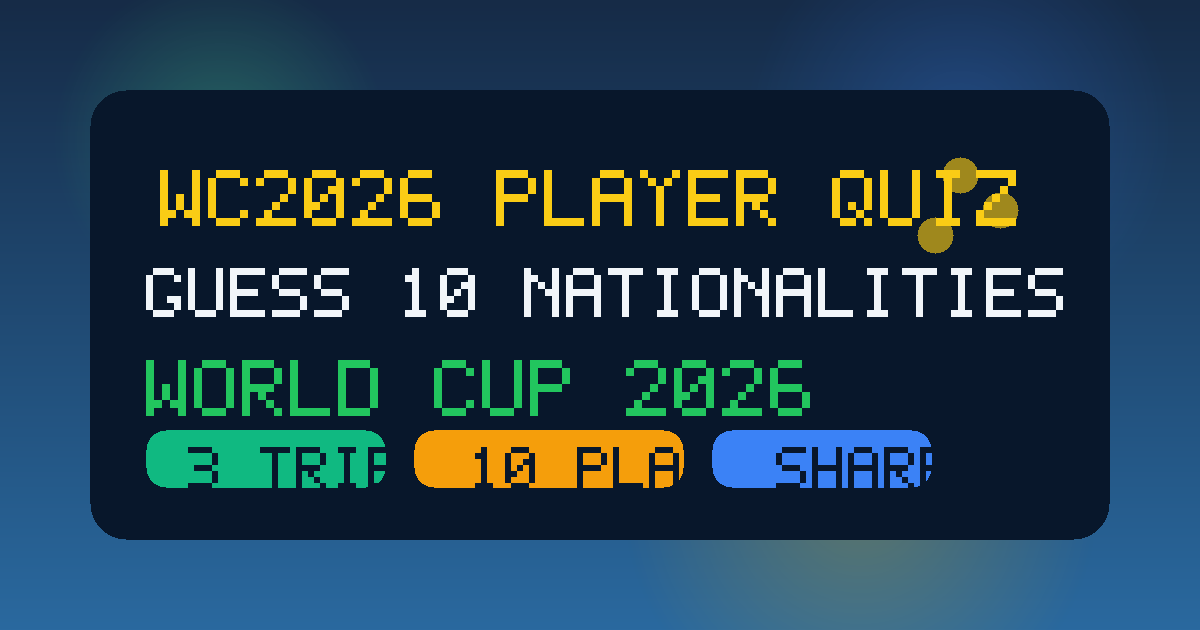
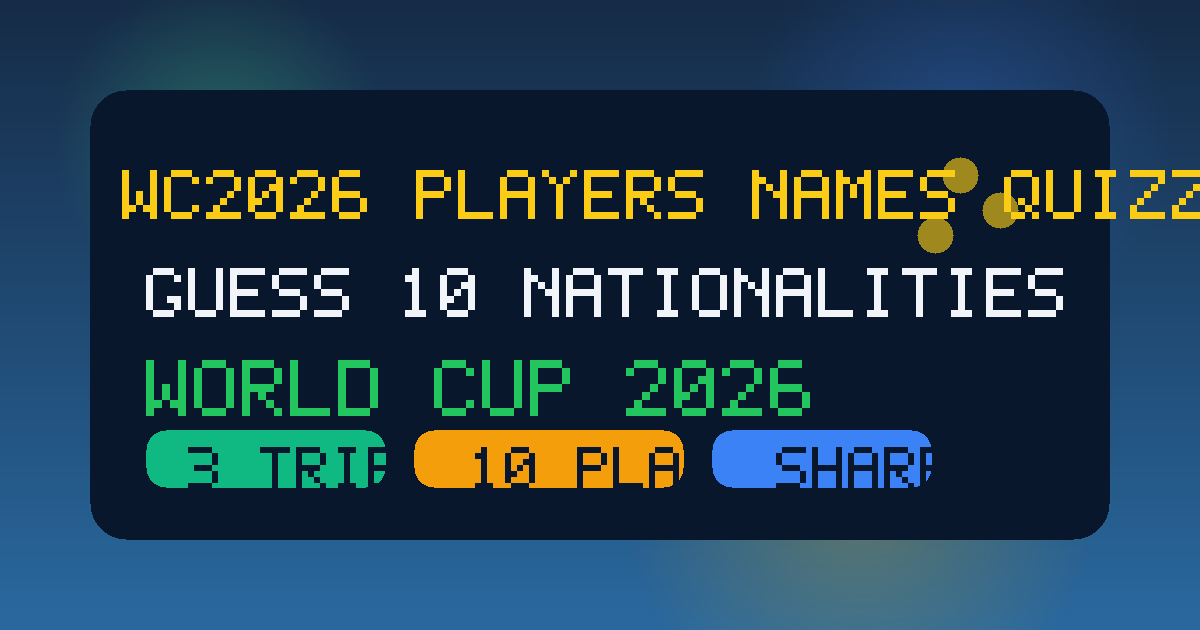
Rename game branding
Change the game name to WC2026 Players Names Quizz across the app, docs, devcontainer, and social preview image.

Changed region(s): [[0.0925, 0.2714, 1.0, 0.3619]]

diff --git a/client/index.html b/client/index.html
@@ -3,14 +3,14 @@
   <head>
     <meta charset="UTF-8" />
     <meta name="viewport" content="width=device-width, initial-scale=1.0" />
-    <title>WC2026 Player Quiz</title>
+    <title>WC2026 Players Names Quizz</title>
     <meta
       name="description"
       content="Guess the nationality of 10 World Cup 2026 players in this fast-paced football quiz."
     />
     <meta property="og:type" content="website" />
-    <meta property="og:site_name" content="WC2026 Player Quiz" />
-    <meta property="og:title" content="WC2026 Player Quiz" />
+    <meta property="og:site_name" content="WC2026 Players Names Quizz" />
+    <meta property="og:title" content="WC2026 Players Names Quizz" />
     <meta
       property="og:description"
       content="Guess the nationality of 10 World Cup 2026 players in this fast-paced football quiz."
@@ -21,7 +21,7 @@
     <meta property="og:image:width" content="1200" />
     <meta property="og:image:height" content="630" />
     <meta name="twitter:card" content="summary_large_image" />
-    <meta name="twitter:title" content="WC2026 Player Quiz" />
+    <meta name="twitter:title" content="WC2026 Players Names Quizz" />
     <meta
       name="twitter:description"
       content="Guess the nationality of 10 World Cup 2026 players in this fast-paced football quiz."

diff --git a/client/src/pages/Home.jsx b/client/src/pages/Home.jsx
@@ -36,7 +36,7 @@ export default function Home() {
 
   return (
     <div className="flex flex-col items-center justify-center min-h-screen gap-6 px-4">
-      <h1 className="text-5xl font-bold text-yellow-400">⚽ WC2026 Player Quiz</h1>
+      <h1 className="text-5xl font-bold text-yellow-400">⚽ WC2026 Players Names Quizz</h1>
       <p className="text-gray-400 text-lg text-center max-w-md">
         Can you guess the nationality of 10 World Cup 2026 players?
       </p>

diff --git a/README.md b/README.md
@@ -1,4 +1,4 @@
-# WC2026 Player Quiz
+# WC2026 Players Names Quizz
 
 Guess the nationality of 10 World Cup 2026 players. 3 tries per player — faster guesses earn more points. Share your result with friends!
 